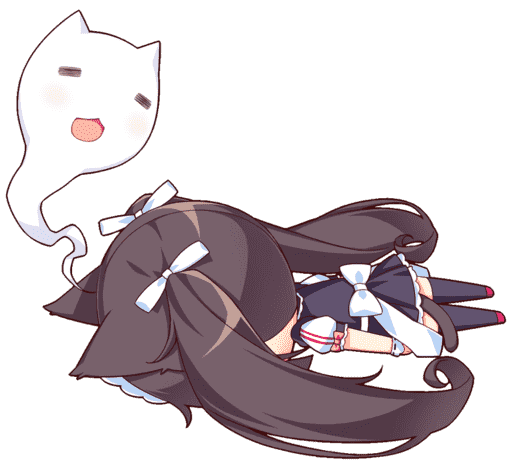
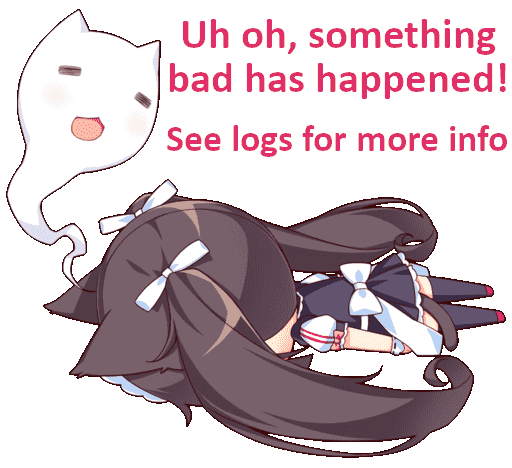
Changed error sprite

diff --git a/Nya/Utils/ImageUtils.cs b/Nya/Utils/ImageUtils.cs
@@ -105,7 +105,7 @@ namespace Nya.Utils
                         while (_nyaImageURL == newUrl || _nyaImageURL == null)
                         {
                             count += 1;
-                            if (count == 4)
+                            if (count == 3)
                             {
                                 LoadErrorSprite(image);
                                 return;
@@ -187,7 +187,7 @@ namespace Nya.Utils
                 _nyaImageURL = "Error Sprite";
                 image.sprite = Utilities.LoadSpriteRaw(data);
             });
-            _siraLog.Warn("Error sprite loaded, something very wrong has happened ):");
+            _siraLog.Warn("Error sprite loaded");
         }
     }
 }
